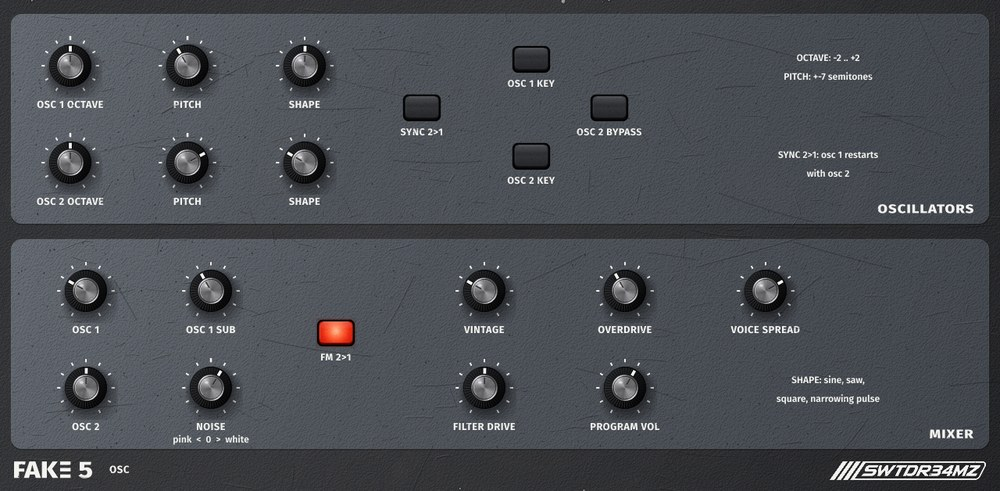
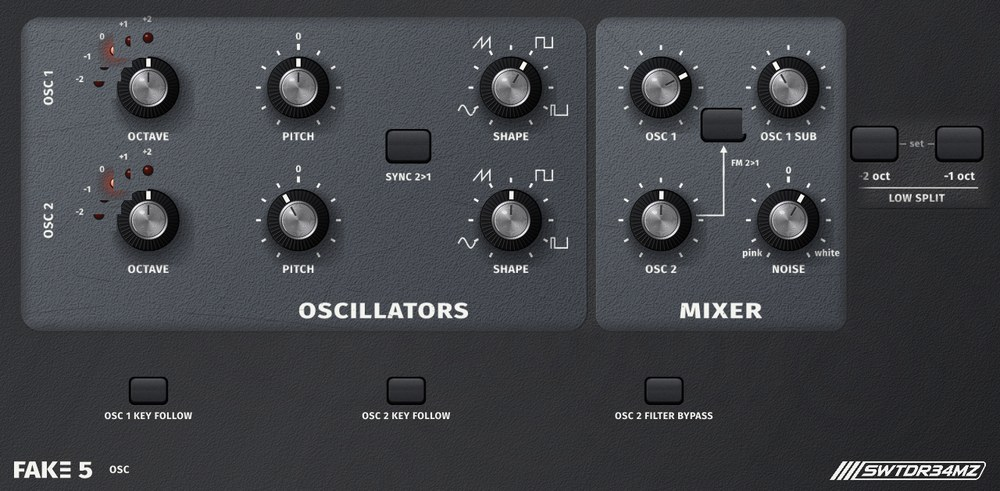
FAKE5: the MPC's new pages
Claude-Session: https://claude.ai/code/session_019gwqiMn3zWB1GviCJVVuv5

diff --git a/index.html b/index.html
@@ -537,7 +537,7 @@
       <div class="shot"><img src="img/fake5-mpc.jpg" alt="FAKE5 on the MPC" loading="lazy"></div>
       <div class="body">
         <h3>FAKE5<span class="vers"><span class="ver" data-ver>v1.0.0</span></span></h3>
-        <p>FAKE5 on your MPC: the whole synth on nine touch pages, its 64 factory sounds with their sequences, 5 or 10 voices.</p>
+        <p>FAKE5 on your MPC: the Take 5's panel section by section, the mod matrix on its display, the 64 factory sounds with their sequences, 5 or 10 voices.</p>
         <p class="note">Download the MPC files from the release page.</p>
         <div class="tags"><span>MPC</span></div>
         <div class="actions">
